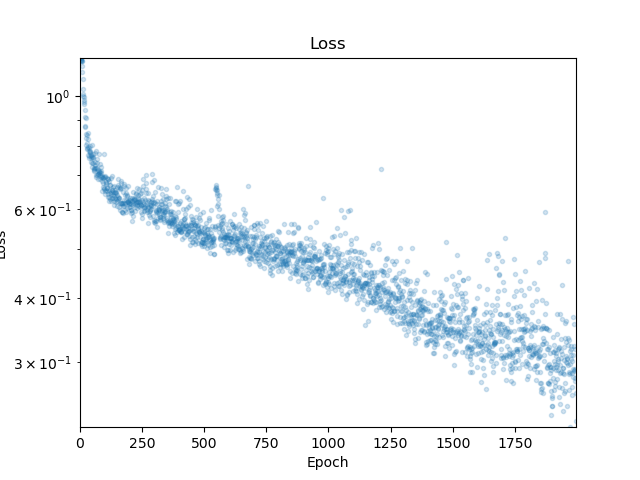
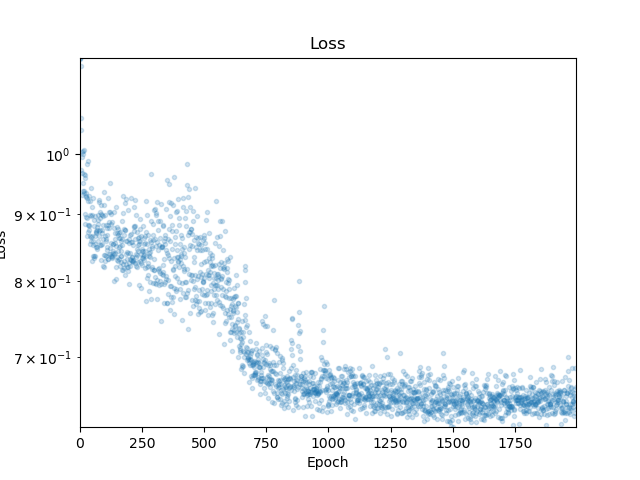
Sample Pool updates: Still training, will likely need a lot more epochs than standard single seed training to replicate similar results. Potted flower NCA generates the pot, but where flower?

diff --git a/training/train_xyzc.py b/training/train_xyzc.py
@@ -50,28 +50,27 @@ def generate_gif_tensor(model: nn.Module, seed):
     """
     return model.generate_gif(seed, target_voxel.shape, CHANNELS)
 
-# def update_pass_sample_pool(device, model, batch, target_voxel, optimiser):
-#     """
-#     Back calculate gradient and update model paramaters
-#     """
-#     outputs = torch.zeros(batch.shape, device=device)
-#     batch_losses = torch.zeros(BATCH_SIZE, device=device)
-#     for batch_idx in range(BATCH_SIZE):
-#         optimiser.zero_grad()
+def update_pass_sample_pool(device, model, batch, target_voxel, optimiser):
+    """
+    Back calculate gradient and update model paramaters
+    """
+    outputs = torch.zeros(batch.shape, device=device)
+    batch_losses = torch.zeros(BATCH_SIZE, device=device)
+    for batch_idx in range(BATCH_SIZE):
+        optimiser.zero_grad()
 
-#         output = model(batch[batch_idx].unsqueeze(0))
-#         outputs[batch_idx] = output
+        output = model(batch[batch_idx].unsqueeze(0))
+        outputs[batch_idx] = output
 
-#         ## Apply voxel-wise MSE loss between RGBA channels in the grid and the target_voxel pattern
-#         # output = output.squeeze(0)[0:4, :, :, :]
-#         output = output.squeeze(0)[..., :4]
+        ## Apply voxel-wise MSE loss between RGBA channels in the grid and the target_voxel pattern
+        # output = output.squeeze(0)[0:4, :, :, :]
+        output = output.squeeze(0)[..., :4]
 
-#         loss = LOSS_FN(output, target_voxel)
-#         batch_losses[batch_idx] = loss.item()
-#         loss.backward()
-#         optimiser.step()
-#     return batch_losses.cpu().numpy(), outputs # might error due to device
-
+        loss = LOSS_FN(output, target_voxel)
+        batch_losses[batch_idx] = loss.item()
+        loss.backward()
+        optimiser.step()
+    return batch_losses.cpu().numpy(), outputs # might error due to device
 
 def update_pass(device, model, batch, target_voxel, optimiser):
     """
@@ -93,97 +92,99 @@ def update_pass(device, model, batch, target_voxel, optimiser):
         optimiser.step()
     return batch_losses.cpu().numpy()
 
-# def sample_pool_train(
-#     device, 
-#     model: nn.Module,
-#     target_voxel: torch.Tensor,
-#     optimiser,
-#     scheduler,
-#     record=False,
-#     DEBUG_MODE=Debug.OFF,
-#     num_samples=8,
-#     training_losses=[],
-# ):
+def sample_pool_train(
+    device, 
+    model: nn.Module,
+    target_voxel: torch.Tensor,
+    optimiser,
+    scheduler,
+    record=False,
+    DEBUG_MODE=Debug.OFF,
+    num_samples=8,
+    training_losses=[],
+):
     
-#     target_voxel = target_voxel.to(device)
+    target_voxel = target_voxel.to(device)
 
-#     start_seed = new_seed(target_voxel=target_voxel, batch_size=1)
+    start_seed = new_seed(target_voxel=target_voxel, batch_size=1)
+    print(start_seed.shape)
 
-#     batch = start_seed.repeat(SAMPLE_POOL_SIZE, 1, 1, 1, 1).to(device) # batch_size = pool size
+    batch = start_seed.repeat(SAMPLE_POOL_SIZE, 1, 1, 1, 1).permute(0,2,3,4,1).to(device) # batch_size = pool size  #[b,c,x,y,z]
 
-#     #print(batch.shape)
+    best_loss = 1e9
 
-#     try:
-#         for epoch in range(EPOCHS):
-#             model.train()
-#             # if record:
-#             #     outputs = torch.zeros_like(batch) # would this error?
+    try:
+        for epoch in range(EPOCHS):
+            model.train()
 
-#             indices = torch.randperm(batch.size(0))[:num_samples]
-#             sampled_batch = batch[indices]
+            indices = torch.randperm(batch.size(0))[:num_samples]
+            sampled_batch = batch[indices]
 
-#             #print(sampled_batch.shape)
+            # replace one item in sample with starting seed
+            reset_index = torch.randint(0, sampled_batch.size(0), (1,)).item()
+            sampled_batch[reset_index] = start_seed.permute(0,2,3,4,1).squeeze(0)
 
-#             # replace one item in sample with starting seed
-#             reset_index = torch.randint(0, sampled_batch.size(0), (1,)).item()
-#             sampled_batch[reset_index] = start_seed.squeeze(0)
+            losses, outputs = update_pass_sample_pool(device, model, sampled_batch, target_voxel, optimiser)
+            training_losses.append(np.mean(losses))
+            batch[indices] = outputs.detach() # detach comp graph as no longer needed
 
-#             losses, outputs = update_pass_sample_pool(device, model, sampled_batch, target_voxel, optimiser)
-#             training_losses.append(np.mean(losses))
-#             batch[indices] = outputs.detach() # detach comp graph as no longer needed
+            scheduler.step() # for learning rate decay
 
-#             scheduler.step() # for learning rate decay
+            mean_loss = np.mean(losses)
 
-#             # Print loss statistics
-#             if DEBUG_MODE == Debug.VERBOSE:
-#                 print(f"epoch {epoch+1}/{EPOCHS} loss = {losses}")
-#             elif DEBUG_MODE == Debug.CONCISE:
-#                 print(
-#                     f"""
-#                 Epoch {epoch + 1}/{EPOCHS}
-#                     Mean loss = {np.mean(losses):.4e}
-#                     Std loss  = {np.std(losses):.4e}
-#                     Min loss  = {np.min(losses):.4e}
-#                     Max loss  = {np.max(losses):.4e}
-#                 """.strip().replace(
-#                         " " * 16, "    "
-#                     )
-#                 )
+            # Print loss statistics
+            if DEBUG_MODE == Debug.VERBOSE:
+                print(f"epoch {epoch+1}/{EPOCHS} loss = {losses}")
+            elif DEBUG_MODE == Debug.CONCISE:
+                print(
+                    f"""
+                Epoch {epoch + 1}/{EPOCHS}
+                    Mean loss = {mean_loss:.4e}
+                    Std loss  = {np.std(losses):.4e}
+                    Min loss  = {np.min(losses):.4e}
+                    Max loss  = {np.max(losses):.4e}
+                """.strip().replace(
+                        " " * 16, "    "
+                    )
+                )
 
-#             recordRate = 10  # Loss graph will be updated every x epochs, and model will be saved every x epochs.
-#             if epoch % recordRate == 0 and epoch != 0:
-#                 print(f"saving model, epoch: {epoch}")
-#                 torch.save(MODEL.state_dict(), f"saved_models/{VOXEL_PATH_NAME}.pth")
-#                 fig = plt.figure()
-#                 ax = fig.add_subplot(1, 1, 1)
+            recordRate = 10  # Loss graph will be updated every x epochs, and model will be saved every x epochs.
+            if epoch % recordRate == 0 and epoch != 0:
+                if mean_loss < best_loss:
+                    print(f"saving model, epoch: {epoch}")
+                    torch.save(MODEL.state_dict(), f"saved_models/{VOXEL_PATH_NAME}.pth")
 
-#                 ax.cla()
-#                 ax.set_yscale("log")
-#                 ax.set_xlim(0, len(training_losses))
-#                 ax.set_ylim(min(training_losses), max(training_losses))
-#                 ax.set_xlabel("Epoch")
-#                 ax.set_ylabel("Loss")
-#                 ax.set_title("Loss")
-#                 ax.plot(training_losses, ".", alpha=0.2)
-#                 plt.savefig("loss.png")
-#                 if LOSS_LOGGING:
-#                     with open("losses.csv", "a") as f:
-#                         losses_str = (
-#                             ",".join(
-#                                 f"{loss:.6f}"
-#                                 for loss in training_losses[-recordRate - 1 : -1]
-#                             )
-#                             + ","
-#                         )
-#                         f.write(losses_str)
+                    best_loss = mean_loss
+                fig = plt.figure()
+                ax = fig.add_subplot(1, 1, 1)
 
-#     except KeyboardInterrupt:
-#         pass
+                ax.cla()
+                ax.set_yscale("log")
+                ax.set_xlim(0, len(training_losses))
+                ax.set_ylim(min(training_losses), max(training_losses))
+                ax.set_xlabel("Epoch")
+                ax.set_ylabel("Loss")
+                ax.set_title("Loss")
+                ax.plot(training_losses, ".", alpha=0.2)
+                plt.savefig("loss_samplepool.png")
+                if LOSS_LOGGING:
+                    with open("losses_samplepool.csv", "a") as f:
+                        losses_str = (
+                            ",".join(
+                                f"{loss:.6f}"
+                                for loss in training_losses[-recordRate - 1 : -1]
+                            )
+                            + ","
+                        )
+                        f.write(losses_str)
 
-#     if record:
-#         return (model, training_losses, outputs)
-#     else:
-#         return model, training_losses
+    except KeyboardInterrupt:
+        pass
+
+    if record:
+        return (model, training_losses, outputs)
+    else:
+        return model, training_losses
 
 def train(
     device, 
@@ -272,12 +273,13 @@ if __name__ == "__main__":
     CHANNELS = 16
     VOXEL_PATH_NAME = "donut"
     UPDATES_RANGE = [64, 96]
+    EPOCHS = 2000
+    SAMPLE_POOL_SIZE = 1024 #BATCH_SIZE = 1 # 64 for sample pooling
+    BATCH_SIZE = 32
 
     MODEL = NCA3DModel(hidden_channels=12, update_steps=UPDATES_RANGE)
     MODEL, device = initialiseGPU(MODEL) # initialiseGPU returns the Model that is moved onto GPU
-    EPOCHS = 2000
-    SAMPLE_POOL_SIZE = 512 #BATCH_SIZE = 1 # 64 for sample pooling
-    BATCH_SIZE = 8
+
     LR = 1e-3  # Suggestion: 1e-3 for hours of training, 1e-4 for tens of hours.
     optimizer = torch.optim.Adam(MODEL.parameters(), lr=LR)
 
@@ -297,23 +299,23 @@ if __name__ == "__main__":
 
     if TRAINING:
         # losses = getLosses()
-        MODEL, losses = train(
-            device,
-            MODEL,
-            target_voxel,
-            optimizer,
-            DEBUG_MODE=DEBUG_MODE,
-            # training_losses=None,
-        )
-        # MODEL, losses = sample_pool_train(
+        # MODEL, losses = train(
         #     device,
         #     MODEL,
         #     target_voxel,
         #     optimizer,
-        #     scheduler=scheduler,
-        #     num_samples=BATCH_SIZE,
-        #     DEBUG_MODE=DEBUG_MODE
+        #     DEBUG_MODE=DEBUG_MODE,
+        #     # training_losses=None,
         # )
+        MODEL, losses = sample_pool_train(
+            device,
+            MODEL,
+            target_voxel,
+            optimizer,
+            scheduler=scheduler,
+            num_samples=BATCH_SIZE,
+            DEBUG_MODE=DEBUG_MODE
+        )
 
     # # ## Switch state to evaluation to disable dropout e.g.
     # MODEL.eval()
